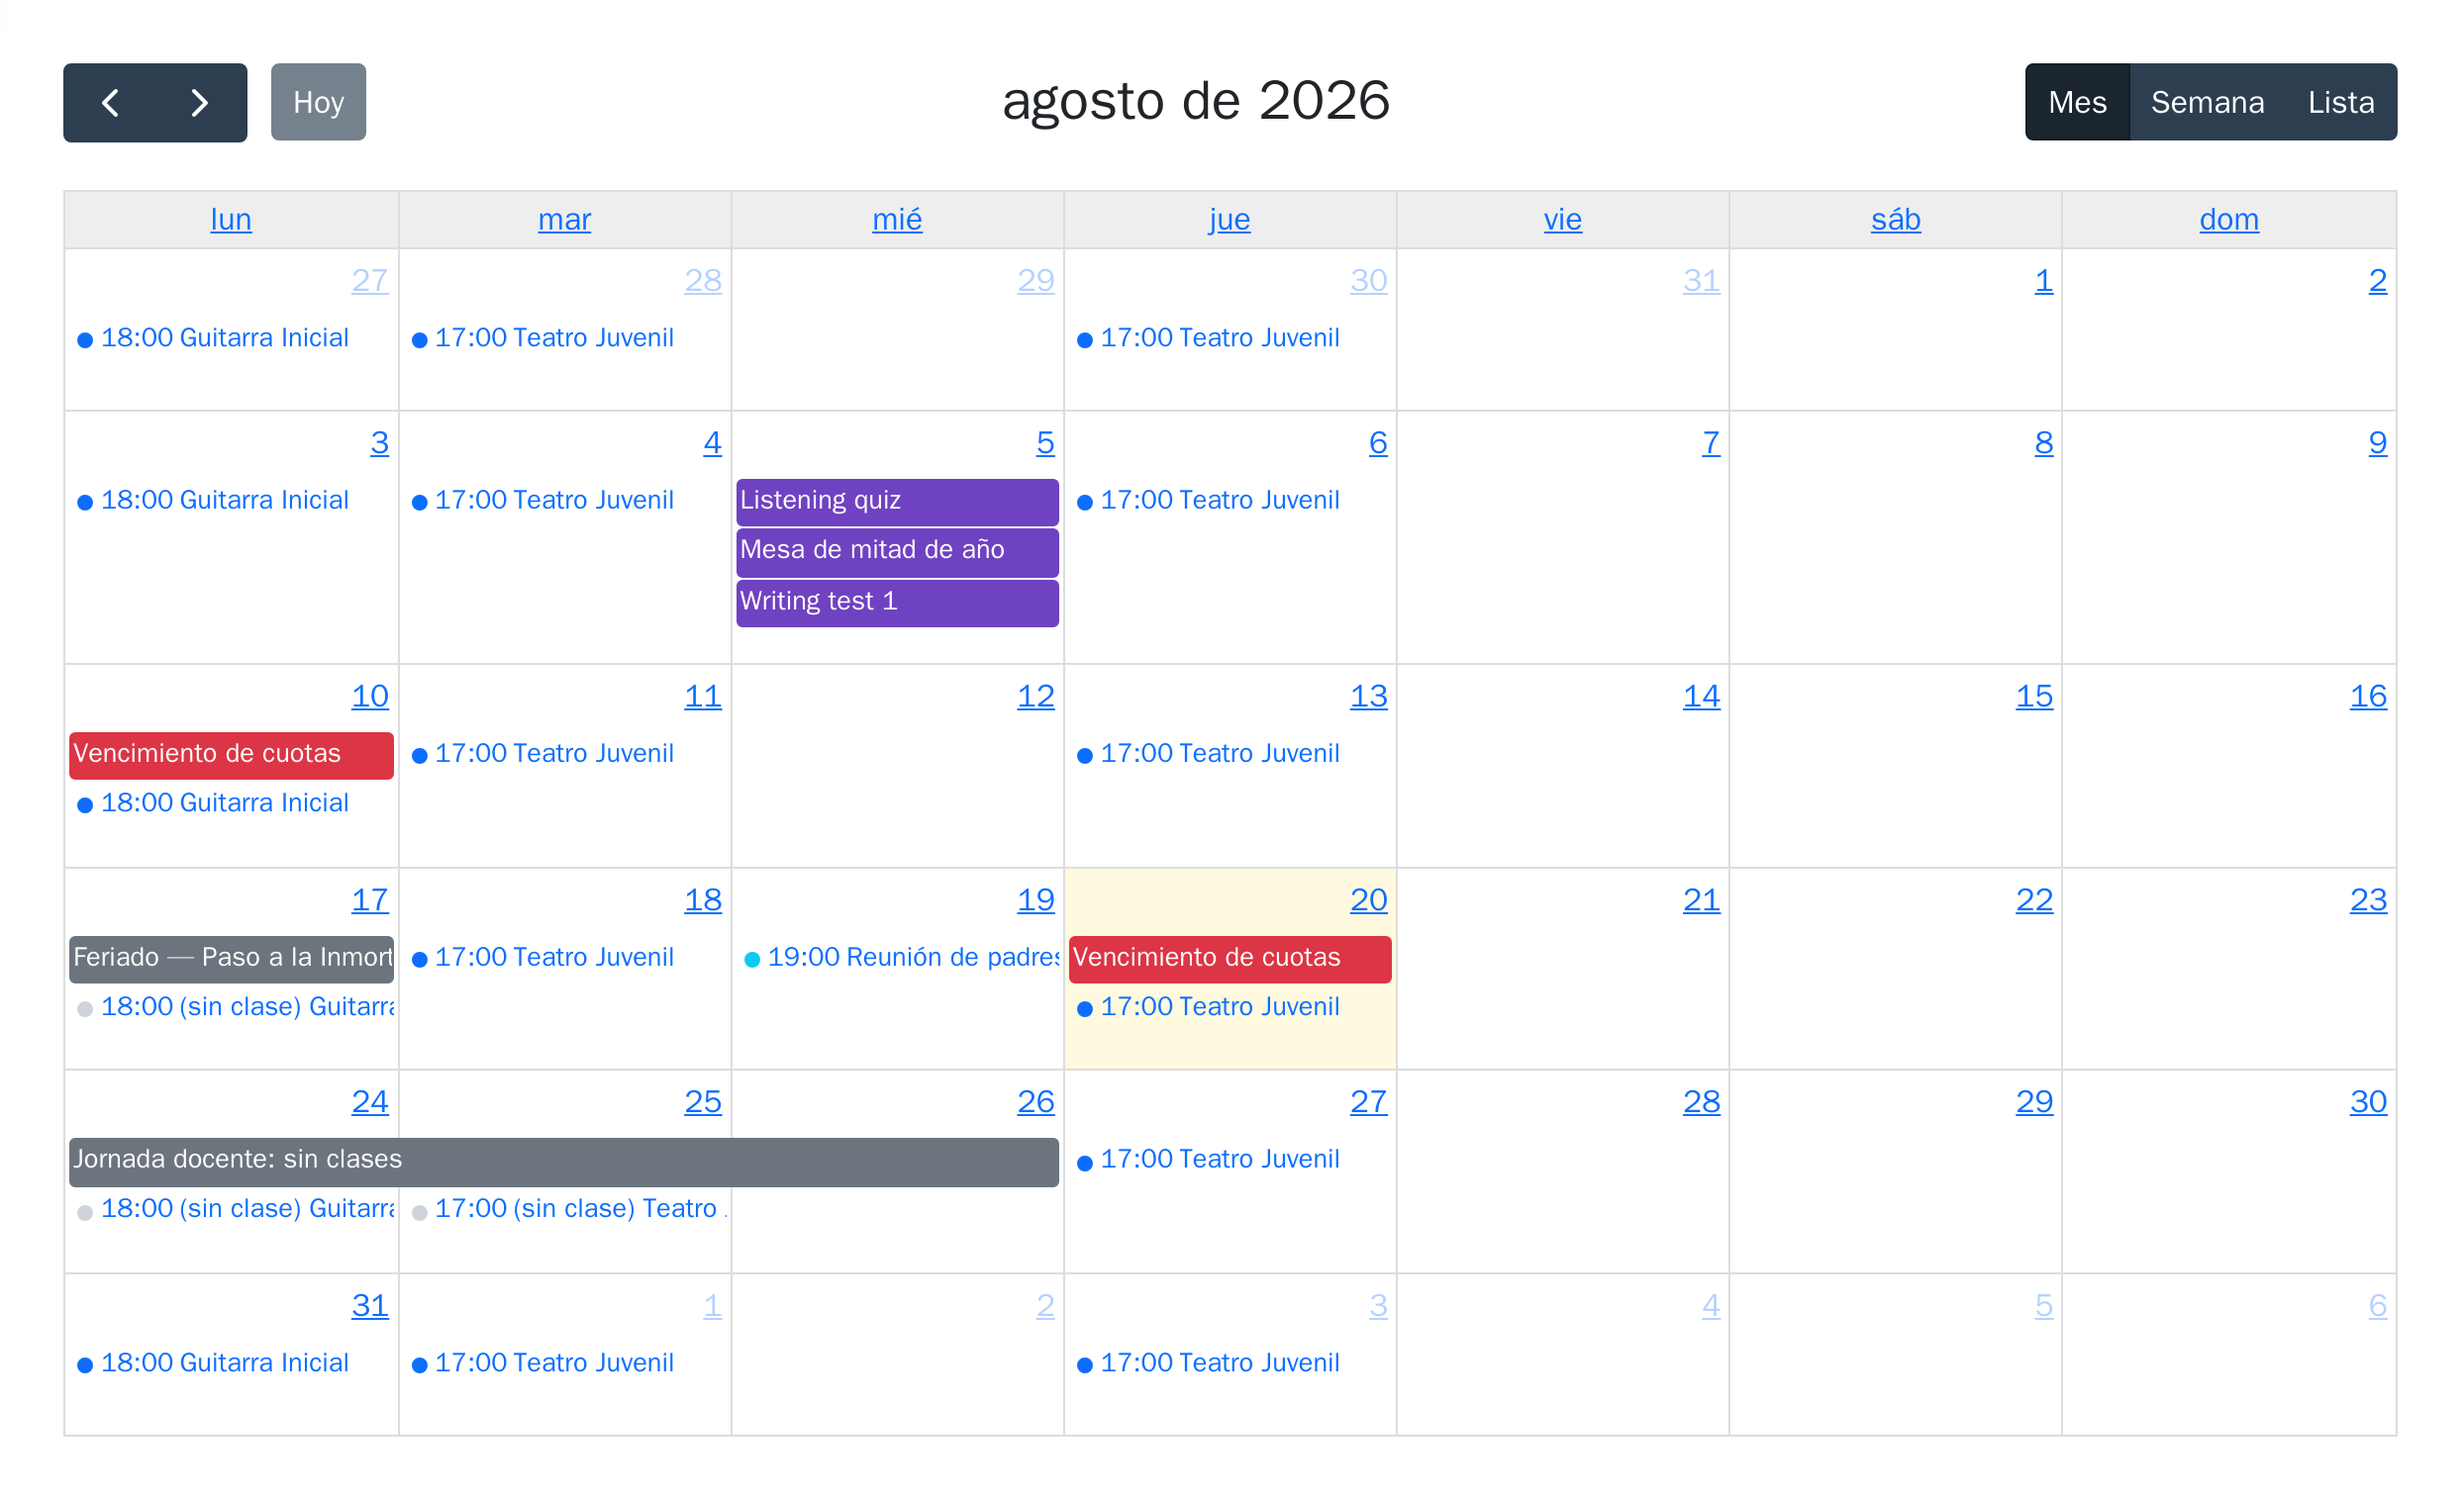
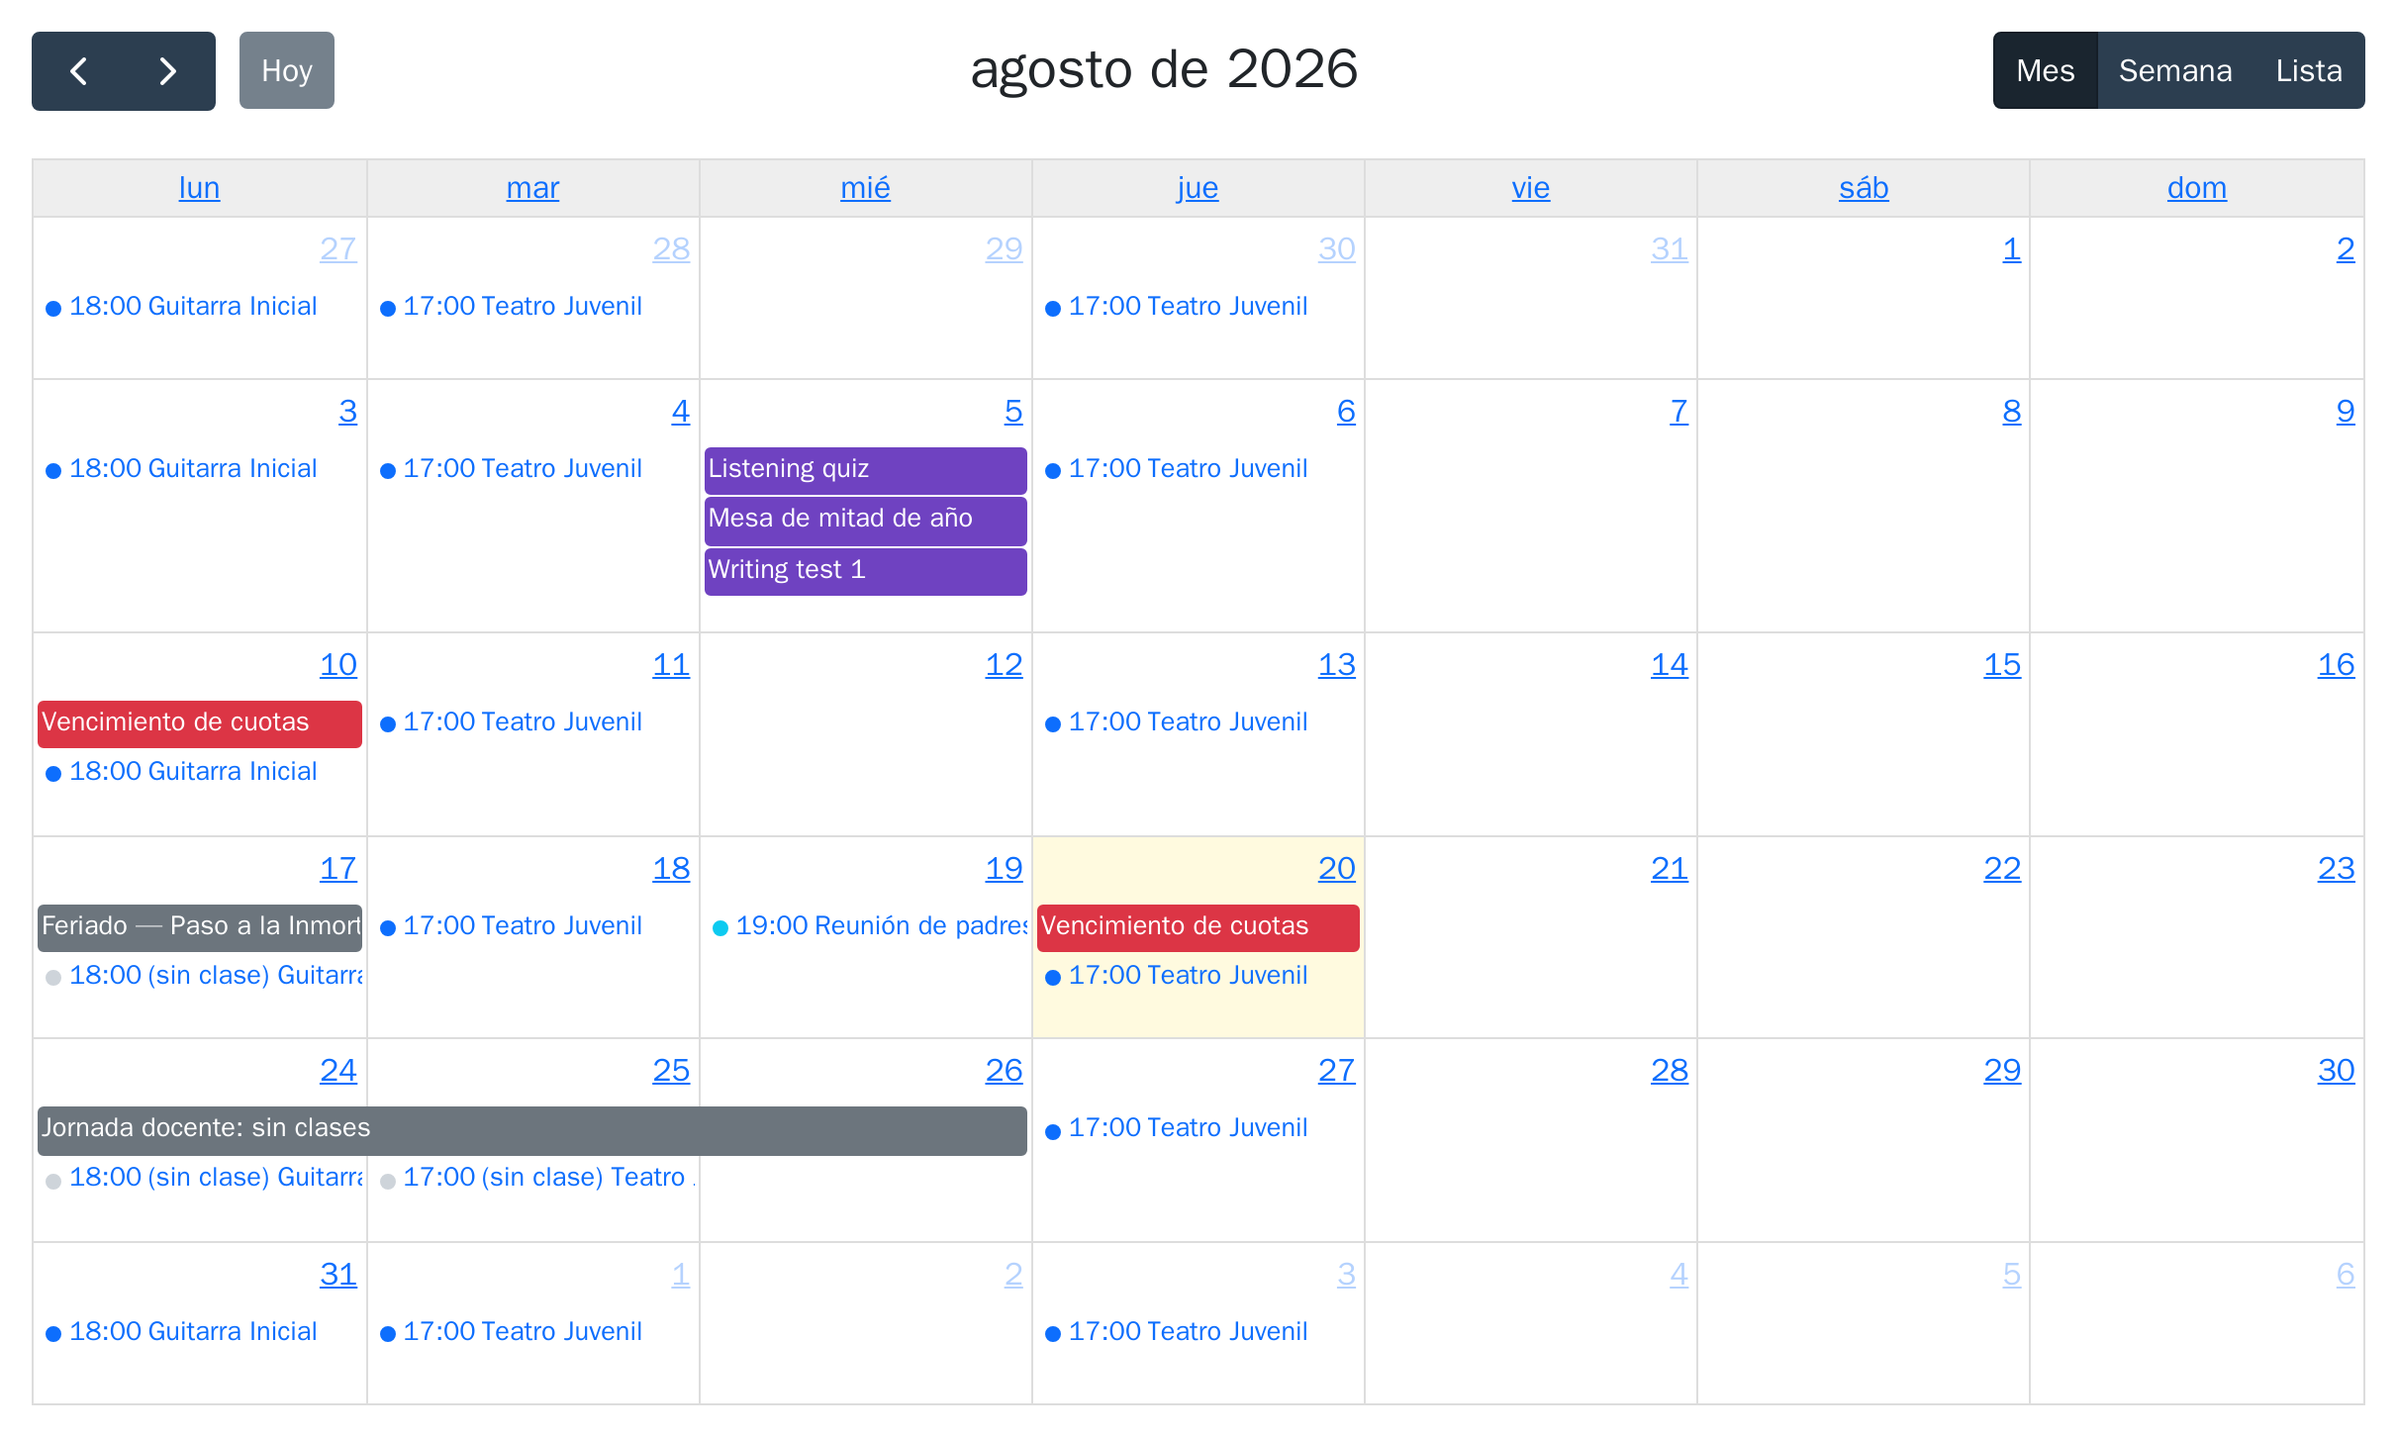
version-3-saas: login, reset y mails al azul, y capturas del producto en la landing
1) /login y /reset-password. loginform.css tenia su propia paleta verde y arena, y
   las dos pantallas se veian de otro producto. Ahora usan el mismo degrade azul
   de fondo, tarjeta blanca, bordes neutros y foco azul. El PNG del logo tenia un
   bloque verde y decia "Creative Design Studio": se reemplazo por el logo de
   marca, que se saco a templates/security/_logo.html.twig para que el color este
   en un solo lugar. En el SVG quedaban dos rellenos arena del acento viejo.

   De paso, el form de login tenia otro <form> anidado adentro: el navegador
   descarta la etiqueta interna y quedaba el cierre suelto, con un hueco de mas
   antes del boton.

2) Mails de Team Builder. base_email y password_reset eran los unicos con verde
   (#849d9a de contenedor y encabezado, #5c6f6c de titulo) y arena en el boton y
   el enlace. Los mails del instituto (recibo, recordatorio, boletin,
   comunicacion) ya eran azules: ahi el unico verde que queda es el del badge de
   "pagado", que es semantico y se queda.

3) La captura del hero pasa a ser el panel del instituto: deudores, adeudado y
   cobrado del mes se explican solos mejor que un calendario. Y se agrega la
   seccion "Asi se ve por dentro" con tres capturas mas, cada una con su
   explicacion: cobros, libreta y agenda. Las filas alternan lado.

   Para que las capturas no mostraran ceros y guiones se le cargaron datos al
   instituto de prueba: inscripciones activas, notas, asistencias y los colores de
[…]

diff --git a/public/assets/css/loginform.css b/public/assets/css/loginform.css
@@ -1,8 +1,25 @@
+/*
+ * Login, registro y recuperación de contraseña.
+ *
+ * Usa los mismos tokens de color que la landing: el azul de marca para las acciones y el gris
+ * neutro para los bordes. El tono legible es el que se usa sobre blanco, porque el azul puro
+ * con texto blanco no llega al contraste que pide AA.
+ */
+:root {
+    --auth-primary: #2f7ef0;
+    --auth-primary-legible: #1b6ae0;
+    --auth-primary-dark: #1b5fc4;
+    --auth-primary-darker: #123a7a;
+    --auth-borde: #d7dee8;
+    --auth-texto: #1f2d3d;
+    --auth-texto-suave: #5a6672;
+}
+
 html, body {
-    background-color: #5e706e;
-    height: 100%;
+    /* El mismo degradé azul del fondo de la landing, sin animación: acá no hace falta. */
+    background: linear-gradient(160deg, #071c3f 0%, #123a7a 45%, #1b5fc4 100%);
+    min-height: 100%;
     margin: 0;
-    overflow: hidden;
 }
 
 .wrapper {
@@ -14,12 +31,12 @@ html, body {
 }
 
 #formContent {
-    background-color: #e8edec;
-    padding: 2rem;
-    border-radius: 10px;
-    box-shadow: 0 4px 6px rgba(92, 111, 108, 0.1);
+    background-color: #ffffff;
+    padding: 2.5rem;
+    border-radius: 18px;
+    box-shadow: 0 18px 45px rgba(7, 28, 63, 0.35);
     width: 100%;
-    max-width: 400px;
+    max-width: 430px;
     position: relative;
     z-index: 1;
 }
@@ -27,13 +44,17 @@ html, body {
 .logo-container {
     text-align: center;
     margin-bottom: 2rem;
-    margin-right: -2rem;
-    margin-left: -2rem;
 }
 
-.logo {
-    max-width: 100%;
-    height: auto;
+.logo-nombre {
+    margin-top: 0.6rem;
+    font-size: 1.15rem;
+    font-weight: 700;
+    color: var(--auth-texto);
+}
+
+.logo-container .landing-header-logo {
+    display: inline-flex;
 }
 
 .login-form {
@@ -49,8 +70,8 @@ html, body {
 .form-control {
     width: 100%;
     padding: 0.75rem 1rem;
-    border: 2px solid #849d9a;
-    border-radius: 5px;
+    border: 1px solid var(--auth-borde);
+    border-radius: 8px;
     font-size: 1rem;
     transition: all 0.3s ease;
     background-color: #ffffff;
@@ -58,17 +79,17 @@ html, body {
 }
 
 .form-control:focus {
-    border-color: #5c6f6c;
-    box-shadow: 0 0 0 0.2rem rgba(92, 111, 108, 0.25);
+    border-color: var(--auth-primary);
+    box-shadow: 0 0 0 0.2rem rgba(47, 126, 240, 0.22);
     outline: none;
 }
 
 .form-control::placeholder {
-    color: #849d9a;
+    color: #9aa6b4;
 }
 
 .btn-primary {
-    background-color: #d4a373;
+    background: linear-gradient(135deg, var(--auth-primary-legible), var(--auth-primary-dark));
     border: none;
     color: #ffffff;
     padding: 0.75rem 1.5rem;
@@ -82,9 +103,9 @@ html, body {
 }
 
 .btn-primary:hover {
-    background-color: #c49262;
+    background: linear-gradient(135deg, var(--auth-primary), var(--auth-primary-dark));
     transform: translateY(-1px);
-    box-shadow: 0 4px 6px rgba(92, 111, 108, 0.2);
+    box-shadow: 0 6px 14px rgba(27, 95, 196, 0.35);
 }
 
 .btn-primary:active {
@@ -92,15 +113,15 @@ html, body {
 }
 
 .forgot-password {
-    color: #5c6f6c;
+    color: var(--auth-primary-legible);
     text-decoration: none;
     font-size: 0.9rem;
     transition: color 0.3s ease;
 }
 
 .forgot-password:hover {
-    color: #d4a373;
-    text-decoration: none;
+    color: var(--auth-primary-dark);
+    text-decoration: underline;
 }
 
 .alert {
@@ -139,13 +160,13 @@ html, body {
 .form-check-input {
     width: 1rem;
     height: 1rem;
-    border: 2px solid #849d9a;
+    border: 1px solid var(--auth-borde);
     border-radius: 3px;
     cursor: pointer;
 }
 
 .form-check-label {
-    color: #5c6f6c;
+    color: var(--auth-texto-suave);
     font-size: 0.9rem;
 }
 
